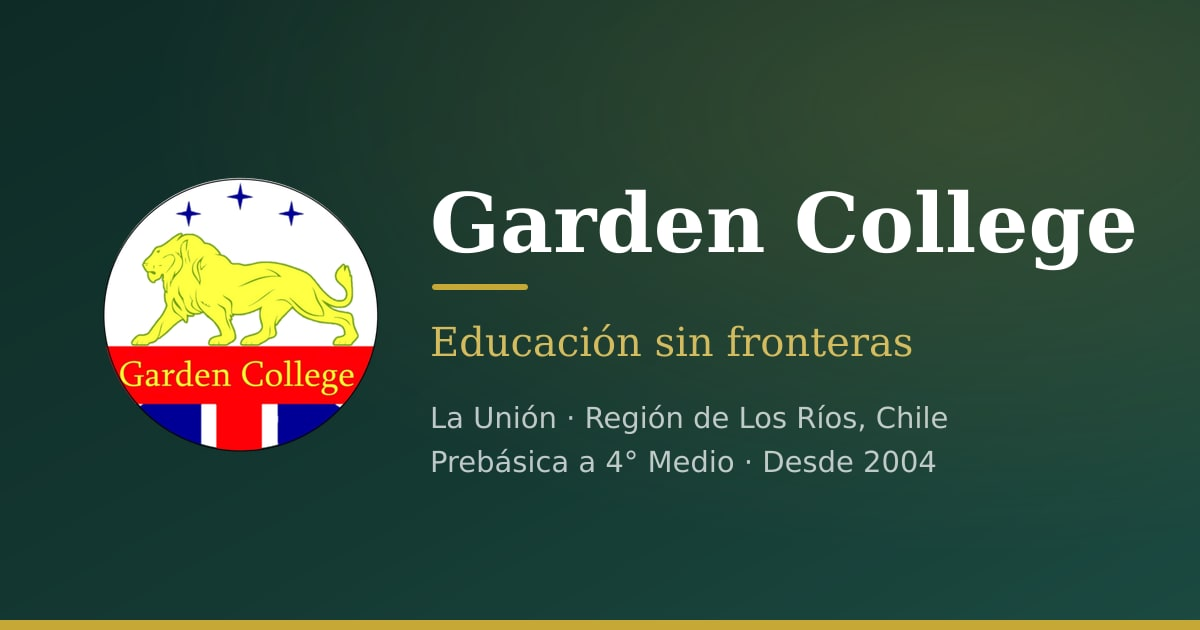
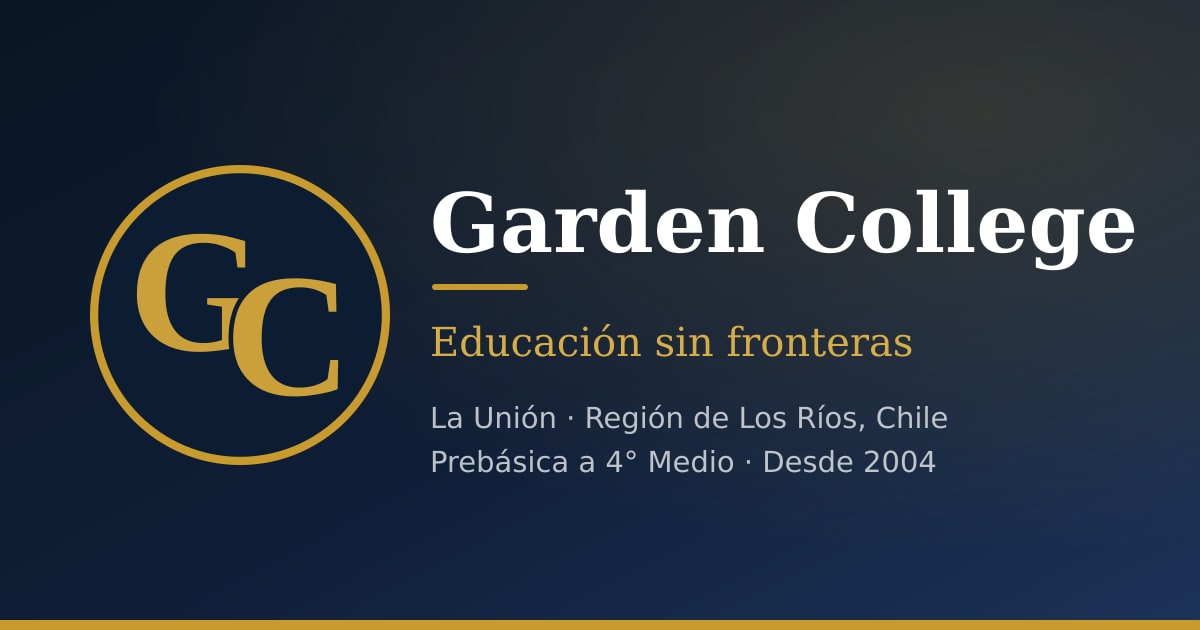
feat: rebrand al isotipo GC y tema navy/carmesí del uniforme nuevo
Alinea la identidad visual del sitio con el uniforme nuevo (navy + carmesí +
dorado), reemplazando el tema verde-jade que venía del uniforme viejo.

Tema (tokens, sin tocar componentes):
- tailwind.config.ts + globals.css: familia "gc-green" ahora contiene el navy
  del uniforme (ramp afinado para web, no un dark plano); dorado → ámbar,
  rojo → carmesí. Regla 60-30-10: neutro claro dominante, navy estructural,
  carmesí de acción (CTA primario) y ámbar de joya (GC, divisores).
- Recursos.tsx y layout.tsx (themeColor): hex hardcodeados al navy.

Logo (navbar + footer):
- Isotipo GC vectorial (círculo navy + monograma serif staggered con separación
  navy), generado limpio y nítido. Aro dorado como anillo del contenedor, fijo.
- Loop con crossfade león ↔ isotipo GC (CSS, se detiene con reduced-motion).
  León recortado a sangre (leon-circulo) para que el aro abrace parejo a ambos.
- El logo cuelga del borde superior del nav al scrollear (animación de acomodo)
  y rebosa el alto de la barra a propósito.
- Footer usa el isotipo con el mismo aro.

SEO — identidad de marca unificada al isotipo en los cuatro touchpoints que usa
Google (antes fragmentados: favicon verde viejo, structured data/OG con león):
- favicon.svg + favicon.png: GC centrado, legible a 16px.
- seo.ts structured data logo → isotipo.
- apple touch icon → isotipo.
- og-image.jpg regenerada con el isotipo + gradiente navy (estaba borrada → 404).
- alt del logo: "Garden College" (sin "Logo" redundante).
[…]

diff --git a/scripts/generar-og-image.js b/scripts/generar-og-image.js
@@ -10,23 +10,27 @@
  * Es una tarjeta de marca y no una foto a propósito: la imagen queda cacheada
  * de forma indefinida por las redes y no corresponde congelar ahí una foto de
  * estudiantes.
+ *
+ * La marca es el isotipo GC (rebrand del uniforme nuevo): navy + aro dorado +
+ * monograma. Va dibujado inline como SVG para que salga vectorial y nítido.
  */
 const sharp = require("sharp");
 const path = require("path");
 
 const ROOT = path.join(__dirname, "..");
 const W = 1200, H = 630;
+const NAVY = "#0C1D33", GOLD = "#C99A2E", GC = "#CBA03A";
 
 const svg = `<svg xmlns="http://www.w3.org/2000/svg" width="${W}" height="${H}">
   <defs>
     <linearGradient id="bg" x1="0" y1="0" x2="1" y2="1">
-      <stop offset="0%"   stop-color="#0F2B26"/>
-      <stop offset="55%"  stop-color="#143832"/>
-      <stop offset="100%" stop-color="#1B4A41"/>
+      <stop offset="0%"   stop-color="#0A1524"/>
+      <stop offset="55%"  stop-color="#101F38"/>
+      <stop offset="100%" stop-color="#1B3358"/>
     </linearGradient>
     <radialGradient id="glow" cx="0.82" cy="0.18" r="0.7">
-      <stop offset="0%"   stop-color="#C5A835" stop-opacity="0.20"/>
-      <stop offset="100%" stop-color="#C5A835" stop-opacity="0"/>
+      <stop offset="0%"   stop-color="${GOLD}" stop-opacity="0.20"/>
+      <stop offset="100%" stop-color="${GOLD}" stop-opacity="0"/>
     </radialGradient>
   </defs>
 
@@ -34,23 +38,28 @@ const svg = `<svg xmlns="http://www.w3.org/2000/svg" width="${W}" height="${H}">
   <rect width="${W}" height="${H}" fill="url(#glow)"/>
 
   <!-- filete dorado inferior -->
-  <rect x="0" y="${H - 10}" width="${W}" height="10" fill="#C5A835"/>
+  <rect x="0" y="${H - 10}" width="${W}" height="10" fill="${GOLD}"/>
+
+  <!-- isotipo GC (navy + aro dorado + monograma), inline y vectorial -->
+  <g transform="translate(90,165) scale(0.586)">
+    <circle cx="256" cy="256" r="256" fill="${GOLD}"/>
+    <circle cx="256" cy="256" r="242" fill="${NAVY}"/>
+    <g font-family="Liberation Serif, 'DejaVu Serif', serif" font-weight="700" font-size="300">
+      <text x="182" y="316" text-anchor="middle" fill="${GC}">G</text>
+      <text x="338" y="392" text-anchor="middle" fill="${GC}" stroke="${NAVY}" stroke-width="16" paint-order="stroke">C</text>
+    </g>
+  </g>
 
   <!-- texto -->
   <text x="430" y="252" font-family="Georgia, 'DejaVu Serif', serif" font-size="82" font-weight="bold" fill="#FFFFFF">Garden College</text>
-  <rect x="432" y="284" width="96" height="6" rx="3" fill="#C5A835"/>
-  <text x="430" y="356" font-family="Georgia, 'DejaVu Serif', serif" font-size="40" fill="#D4BC5E">Educación sin fronteras</text>
+  <rect x="432" y="284" width="96" height="6" rx="3" fill="${GOLD}"/>
+  <text x="430" y="356" font-family="Georgia, 'DejaVu Serif', serif" font-size="40" fill="#D9AD46">Educación sin fronteras</text>
   <text x="430" y="428" font-family="'DejaVu Sans', Verdana, sans-serif" font-size="29" fill="#FFFFFF" fill-opacity="0.72">La Unión · Región de Los Ríos, Chile</text>
   <text x="430" y="472" font-family="'DejaVu Sans', Verdana, sans-serif" font-size="29" fill="#FFFFFF" fill-opacity="0.72">Prebásica a 4° Medio · Desde 2004</text>
 </svg>`;
 
 (async () => {
-  const logo = await sharp(path.join(ROOT, "public/media/Logo/cropped-cropped-logo.png"))
-    .resize(300, 300, { fit: "contain", background: { r: 0, g: 0, b: 0, alpha: 0 } })
-    .toBuffer();
-
   await sharp(Buffer.from(svg))
-    .composite([{ input: logo, top: 165, left: 90 }])
     .jpeg({ quality: 88, mozjpeg: true })
     .toFile(path.join(ROOT, "public/og-image.jpg"));
 

diff --git a/src/app/globals.css b/src/app/globals.css
@@ -6,27 +6,28 @@
    VARIABLES CSS — PALETA GARDEN COLLEGE
    ============================================= */
 :root {
-  /* Verde Jade — protagonista */
-  --gc-green-50:    #EBF5F3;
-  --gc-green-100:   #B8DDD5;
-  --gc-green-light: #5EAA9A;
-  --gc-green:       #3D8578;
-  --gc-green-dark:  #2D6A5F;
-  --gc-green-800:   #1F4F46;
-  --gc-green-900:   #143832;
+  /* PROTOTIPO uniforme nuevo (rama feat/uniformes): "gc-green" conserva el
+     nombre pero ahora es el NAVY del uniforme. Reversible. Ver docs/BLUE_TEAM… */
+  --gc-green-50:    #EAEEF7;
+  --gc-green-100:   #CDD9EF;
+  --gc-green-light: #5A79BE;
+  --gc-green:       #2E4E8C;
+  --gc-green-dark:  #1F386A;
+  --gc-green-800:   #1A2E52;
+  --gc-green-900:   #0F1D38;
   /* Navy — base */
   --gc-navy-50:    #E8ECF2;
   --gc-navy-light: #2D4470;
   --gc-navy:       #1B2A4A;
-  --gc-navy-dark:  #111B33;
-  /* Dorado — acento + CTA */
-  --gc-gold-50:    #FAF6EB;
-  --gc-gold-light: #D4B84E;
-  --gc-gold:       #B8943B;
-  --gc-gold-dark:  #7A6A2E;
-  /* Rojo — solo errores */
-  --gc-red:        #C62828;
-  --gc-red-light:  #E53935;
+  --gc-navy-dark:  #0F1B2E;
+  /* Ámbar — acento + monograma GC (afinado al uniforme) */
+  --gc-gold-50:    #FAF4E4;
+  --gc-gold-light: #E3B23F;
+  --gc-gold:       #C79018;
+  --gc-gold-dark:  #8F6910;
+  /* Carmesí — acento real de marca (bomber, ribetes) */
+  --gc-red:        #B01722;
+  --gc-red-light:  #D2202C;
   /* Neutros */
   --gc-white:      #FAFAF8;
   --gc-warm:       #FAFAF8;
@@ -75,13 +76,17 @@
 
   /* Botones */
   .btn-primary {
+    /* Prototipo uniforme: acción principal en CARMESÍ (el "10%" de 60-30-10,
+       presente en toda pantalla). El oro pasa a joya (GC, divisores), como la
+       bomber: tela navy, acentos rojos, letras doradas. */
     @apply inline-flex items-center justify-center px-6 py-3
-           bg-gc-gold text-white font-body font-semibold
-           rounded-xl hover:bg-gc-gold-dark hover:text-white transition-all duration-200
+           bg-gc-red text-white font-body font-semibold
+           rounded-xl hover:bg-gc-red-light hover:text-white transition-all duration-200
            shadow-sm hover:shadow-md active:scale-[0.98];
   }
 
   .btn-secondary {
+    /* Secundario en navy (outline): jerarquía bajo el carmesí primario. */
     @apply inline-flex items-center justify-center px-6 py-3
            border-2 border-gc-green-800 text-gc-green-800 font-body font-semibold
            rounded-xl hover:bg-gc-green-800 hover:text-white transition-all duration-200;
@@ -181,3 +186,20 @@
    ============================================= */
 /* El crossfade del carrusel (CarouselLinkCard) ahora genera su keyframe según
    la cantidad de imágenes; ya no hay un keyframe fijo acá. */
+
+/* Logo del navbar: alterna león ↔ círculo GC (prototipo uniforme). El GC es la
+   capa superior; su opacidad hace el crossfade sobre el león. Ciclo 8s:
+   ~león 3s → fundido → ~GC 3s → fundido. */
+@keyframes logo-swap {
+  0%, 40%  { opacity: 0; }
+  50%, 90% { opacity: 1; }
+  100%     { opacity: 0; }
+}
+.logo-swap {
+  opacity: 0;
+  animation: logo-swap 8s ease-in-out infinite;
+}
+@media (prefers-reduced-motion: reduce) {
+  /* Sin animación: se queda el león, el GC no aparece. */
+  .logo-swap { animation: none; opacity: 0; }
+}

diff --git a/src/components/public/sections/Navbar.tsx b/src/components/public/sections/Navbar.tsx
@@ -78,7 +78,7 @@ export default function Navbar({ nombre, telefonoBasica, telefonoMedia, variant 
     >
       {/* Barra superior — solo desktop */}
       {!isLight && (
-        <div className="hidden lg:block bg-gc-green-800 text-white/80 text-sm">
+        <div className="hidden lg:block bg-gc-red text-white/85 text-sm">
           <div className="container-gc flex justify-between items-center py-1.5">
             <div className="flex items-center gap-4 font-body">
                 {telefonoBasica && (
@@ -146,14 +146,38 @@ export default function Navbar({ nombre, telefonoBasica, telefonoMedia, variant 
         <div className="flex items-center justify-between h-16 lg:h-20">
           {/* Logo + Nombre */}
           <a href={logoHref} className="flex items-center gap-3 group">
-            <div className="w-14 h-14 lg:w-[4.5rem] lg:h-[4.5rem] rounded-full overflow-hidden bg-white shadow-md p-0.5 shrink-0 -my-2">
+            {/* Logo en loop: león institucional ↔ círculo GC del uniforme nuevo
+                (crossfade). Contenedor transparente, sin fondo blanco ni padding:
+                el aro dorado del GC y el badge del león se sostienen solos sobre
+                el navbar oscuro, sin ningún borde blanco. El león lleva el alt
+                real; el GC es decorativo en el ciclo. Para con reduced-motion. */}
+            {/* Diámetro > alto del nav (h-16=64 / lg:h-20=80): el círculo rebosa
+                y "deforma" la barra. Dos estados con animación de acomodo:
+                  · arriba (!isLight): centrado, rebosando por arriba y por abajo.
+                  · scrolleado (isLight): baja 4px (lo que sobra por arriba al
+                    centrarse) para que el TOP del círculo quede al ras del nav y
+                    no se corte la cabeza; el excedente cuelga hacia abajo.
+                translate-y es visual: no agranda la fila ni mueve los links. */}
+            <div
+              className={`relative w-[4.5rem] h-[4.5rem] lg:w-[5.5rem] lg:h-[5.5rem] shrink-0 rounded-full ring-[3px] ring-gc-gold shadow-md transition-transform duration-300 ease-out ${
+                isLight ? "translate-y-1" : "translate-y-0"
+              }`}
+            >
               <Image
-                src="/media/Logo/cropped-cropped-logo.png"
-                alt="Logo Garden College"
+                src="/media/Logo/leon-circulo.webp"
+                alt="Garden College"
                 width={72}
                 height={72}
                 priority
-                className="w-full h-full object-contain"
+                className="absolute inset-0 w-full h-full object-contain"
+              />
+              <Image
+                src="/media/Logo/gc-identidad.webp"
+                alt=""
+                aria-hidden="true"
+                width={72}
+                height={72}
+                className="logo-swap absolute inset-0 w-full h-full object-contain"
               />
             </div>
             <div>

diff --git a/tailwind.config.ts b/tailwind.config.ts
@@ -9,34 +9,37 @@ const config: Config = {
   theme: {
     extend: {
       colors: {
-        // VERDE JADE — color protagonista (uniforme, tartán)
+        // PROTOTIPO uniforme nuevo (rama feat/uniformes): la familia "gc-green"
+        // conserva su NOMBRE pero ahora contiene el NAVY del uniforme, para
+        // flipear los 19 componentes sin editarlos. Si se descarta, se revierten
+        // estos valores. Escala de luminosidad preservada (50 claro → 900 oscuro).
         "gc-green": {
-          "50":      "#EBF5F3",
-          "100":     "#B8DDD5",
-          "light":   "#5EAA9A",
-          DEFAULT:   "#3D8578",
-          "dark":    "#2D6A5F",
-          "800":     "#1F4F46",
-          "900":     "#143832",
+          "50":      "#EAEEF7",
+          "100":     "#CDD9EF",
+          "light":   "#5A79BE",
+          DEFAULT:   "#2E4E8C",
+          "dark":    "#1F386A",
+          "800":     "#1A2E52",
+          "900":     "#0F1D38",
         },
-        // NAVY — base oscura (fondo tartán, hero, footer)
+        // NAVY — base oscura (hero, footer). Se profundiza el dark al navy textil.
         "gc-navy": {
           "50":    "#E8ECF2",
           "light": "#2D4470",
           DEFAULT: "#1B2A4A",
-          "dark":  "#111B33",
+          "dark":  "#0F1B2E",
         },
-        // DORADO — acento divino + CTA principal
+        // ÁMBAR — acento + monograma GC (afinado al dorado del uniforme)
         "gc-gold": {
-          "50":    "#FAF6EB",
-          "light": "#D4B84E",
-          DEFAULT: "#B8943B",
-          "dark":  "#7A6A2E",
+          "50":    "#FAF4E4",
+          "light": "#E3B23F",
+          DEFAULT: "#C79018",
+          "dark":  "#8F6910",
         },
-        // ROJO — solo errores y alertas
+        // CARMESÍ — ahora acento REAL de marca (bomber, ribetes), no solo error
         "gc-red": {
-          DEFAULT: "#C62828",
-          "light": "#E53935",
+          DEFAULT: "#B01722",
+          "light": "#D2202C",
         },
         // Neutros
         "gc-white":     "#FAFAF8",

diff --git a/src/components/public/sections/Recursos.tsx b/src/components/public/sections/Recursos.tsx
@@ -15,7 +15,7 @@ const IconoFlecha = () => (
 
 const iconosInternos: Record<string, JSX.Element> = {
   pei: (
-    <svg width="18" height="18" viewBox="0 0 24 24" fill="none" stroke="#3D8578" strokeWidth="1.8" strokeLinecap="round" strokeLinejoin="round">
+    <svg width="18" height="18" viewBox="0 0 24 24" fill="none" stroke="#1B2A4A" strokeWidth="1.8" strokeLinecap="round" strokeLinejoin="round">
       <path d="M14 2H6a2 2 0 0 0-2 2v16a2 2 0 0 0 2 2h12a2 2 0 0 0 2-2V8z" />
       <polyline points="14 2 14 8 20 8" />
       <line x1="16" y1="13" x2="8" y2="13" />
@@ -23,12 +23,12 @@ const iconosInternos: Record<string, JSX.Element> = {
     </svg>
   ),
   "reglamento-convivencia": (
-    <svg width="18" height="18" viewBox="0 0 24 24" fill="none" stroke="#3D8578" strokeWidth="1.8" strokeLinecap="round" strokeLinejoin="round">
+    <svg width="18" height="18" viewBox="0 0 24 24" fill="none" stroke="#1B2A4A" strokeWidth="1.8" strokeLinecap="round" strokeLinejoin="round">
       <path d="M12 22s8-4 8-10V5l-8-3-8 3v7c0 6 8 10 8 10z" />
     </svg>
   ),
   "centro-documentacion": (
-    <svg width="18" height="18" viewBox="0 0 24 24" fill="none" stroke="#3D8578" strokeWidth="1.8" strokeLinecap="round" strokeLinejoin="round">
+    <svg width="18" height="18" viewBox="0 0 24 24" fill="none" stroke="#1B2A4A" strokeWidth="1.8" strokeLinecap="round" strokeLinejoin="round">
       <rect x="2" y="3" width="20" height="14" rx="2" />
       <path d="M8 21h8M12 17v4" />
     </svg>

diff --git a/src/components/public/sections/Footer.tsx b/src/components/public/sections/Footer.tsx
@@ -1,3 +1,5 @@
+import Image from "next/image";
+
 interface FooterProps {
   nombre: string;
   corporacion: string;
@@ -29,8 +31,14 @@ export default function Footer({ nombre, corporacion, redes }: FooterProps) {
           {/* Logo + info */}
           <div className="sm:col-span-2 lg:col-span-1">
             <div className="flex items-center gap-3 mb-4">
-              <div className="w-10 h-10 rounded-full bg-gc-green flex items-center justify-center font-display font-bold text-gc-gold">
-                GC
+              <div className="w-11 h-11 rounded-full ring-2 ring-gc-gold shrink-0">
+                <Image
+                  src="/media/Logo/gc-identidad.webp"
+                  alt="Garden College"
+                  width={44}
+                  height={44}
+                  className="w-full h-full object-contain"
+                />
               </div>
               <span className="font-display font-bold text-white text-lg">
                 {nombre}

diff --git a/src/app/layout.tsx b/src/app/layout.tsx
@@ -67,9 +67,14 @@ export const metadata: Metadata = {
     images: [OG_IMAGE.url],
   },
   icons: {
-    icon: "/favicon.svg",
-    shortcut: "/favicon.svg",
-    apple: "/media/Logo/cropped-cropped-logo.png",
+    // Rebrand oficializado en esta rama: la identidad ante Google es el isotipo
+    // GC en los cuatro touchpoints (favicon, structured data, apple, OG).
+    icon: [
+      { url: "/favicon.svg", type: "image/svg+xml" },
+      { url: "/favicon.png", type: "image/png", sizes: "96x96" },
+    ],
+    shortcut: "/favicon.png",
+    apple: "/media/Logo/gc-identidad.png",
   },
   robots: {
     index: true,
@@ -88,7 +93,7 @@ export const metadata: Metadata = {
 };
 
 export const viewport: Viewport = {
-  themeColor: "#143832",
+  themeColor: "#0A1420",
   width: "device-width",
   initialScale: 1,
 };

diff --git a/src/lib/seo.ts b/src/lib/seo.ts
@@ -111,7 +111,7 @@ export function jsonLdSitio() {
         description: c["institucional.resena"],
         slogan: c["institucional.slogan"],
         url: SITE_URL,
-        logo: absUrl("/media/Logo/cropped-cropped-logo.png"),
+        logo: absUrl("/media/Logo/gc-identidad.png"),
         image: absUrl(OG_IMAGE.url),
         email: c["contacto.email"],
         telephone: aE164(c["contacto.sede_basica.telefono"] ?? ""),

diff --git a/docs/SEO.md b/docs/SEO.md
@@ -128,6 +128,43 @@ node scripts/generar-og-image.js
 
 ---
 
+## Consistencia de marca (crítico para el posicionamiento)
+
+Google no muestra el logo del `<header>` en los resultados: arma la identidad de
+la marca con **cuatro touchpoints separados**, y si no coinciden entre sí, se
+diluye el reconocimiento de marca (que sí influye en CTR y en cómo Google
+construye la *entidad* del colegio en su grafo de conocimiento).
+
+| Touchpoint | Dónde se ve | Archivo |
+|---|---|---|
+| **Favicon** | Junto al nombre en los resultados (móvil) | `public/favicon.svg` |
+| **`logo` structured data** | Knowledge panel / rich results | `src/lib/seo.ts` → `School.logo` |
+| **Apple touch icon** | Marcador en iOS | `src/app/layout.tsx` → `icons.apple` |
+| **OG image** | Preview al compartir (WhatsApp, redes) | `public/og-image.jpg` |
+
+**Regla:** los cuatro deben mostrar el MISMO isotipo que el logo visible del
+sitio. Cuando se cambia la identidad, se actualizan los cuatro juntos — si no,
+Google muestra una marca y el sitio otra.
+
+> Favicon: para máxima compatibilidad conviene un PNG múltiplo de 48 (el tamaño
+> que Google reescala). El favicon debe ser **cuadrado y legible a 16px**: nada
+> de texto largo ni detalle fino que se pierda.
+
+**Estado actual (rama `feat/uniformes` — rebrand oficializado):** los cuatro
+touchpoints muestran el **isotipo GC** (navy + monograma dorado), igual que la
+UI del sitio:
+
+- **Favicon:** `favicon.svg` (+ `favicon.png` 96×96) — GC centrado, legible a 16px.
+- **Structured data `logo`:** `gc-identidad.png`.
+- **Apple touch icon:** `gc-identidad.png`.
+- **OG image:** `og-image.jpg` regenerada con el isotipo + gradiente navy.
+
+El león queda sólo como capa secundaria del loop del navbar (con `alt=""`, no es
+señal de marca para Google). El isotipo GC lee limpio a 16px — a diferencia del
+badge del león, que como escudo detallado se volvía una mancha a ese tamaño.
+
+---
+
 ## Texto alternativo de las imágenes
 
 El `alt` se derivaba del nombre del archivo, así que el sitio publicaba cosas
